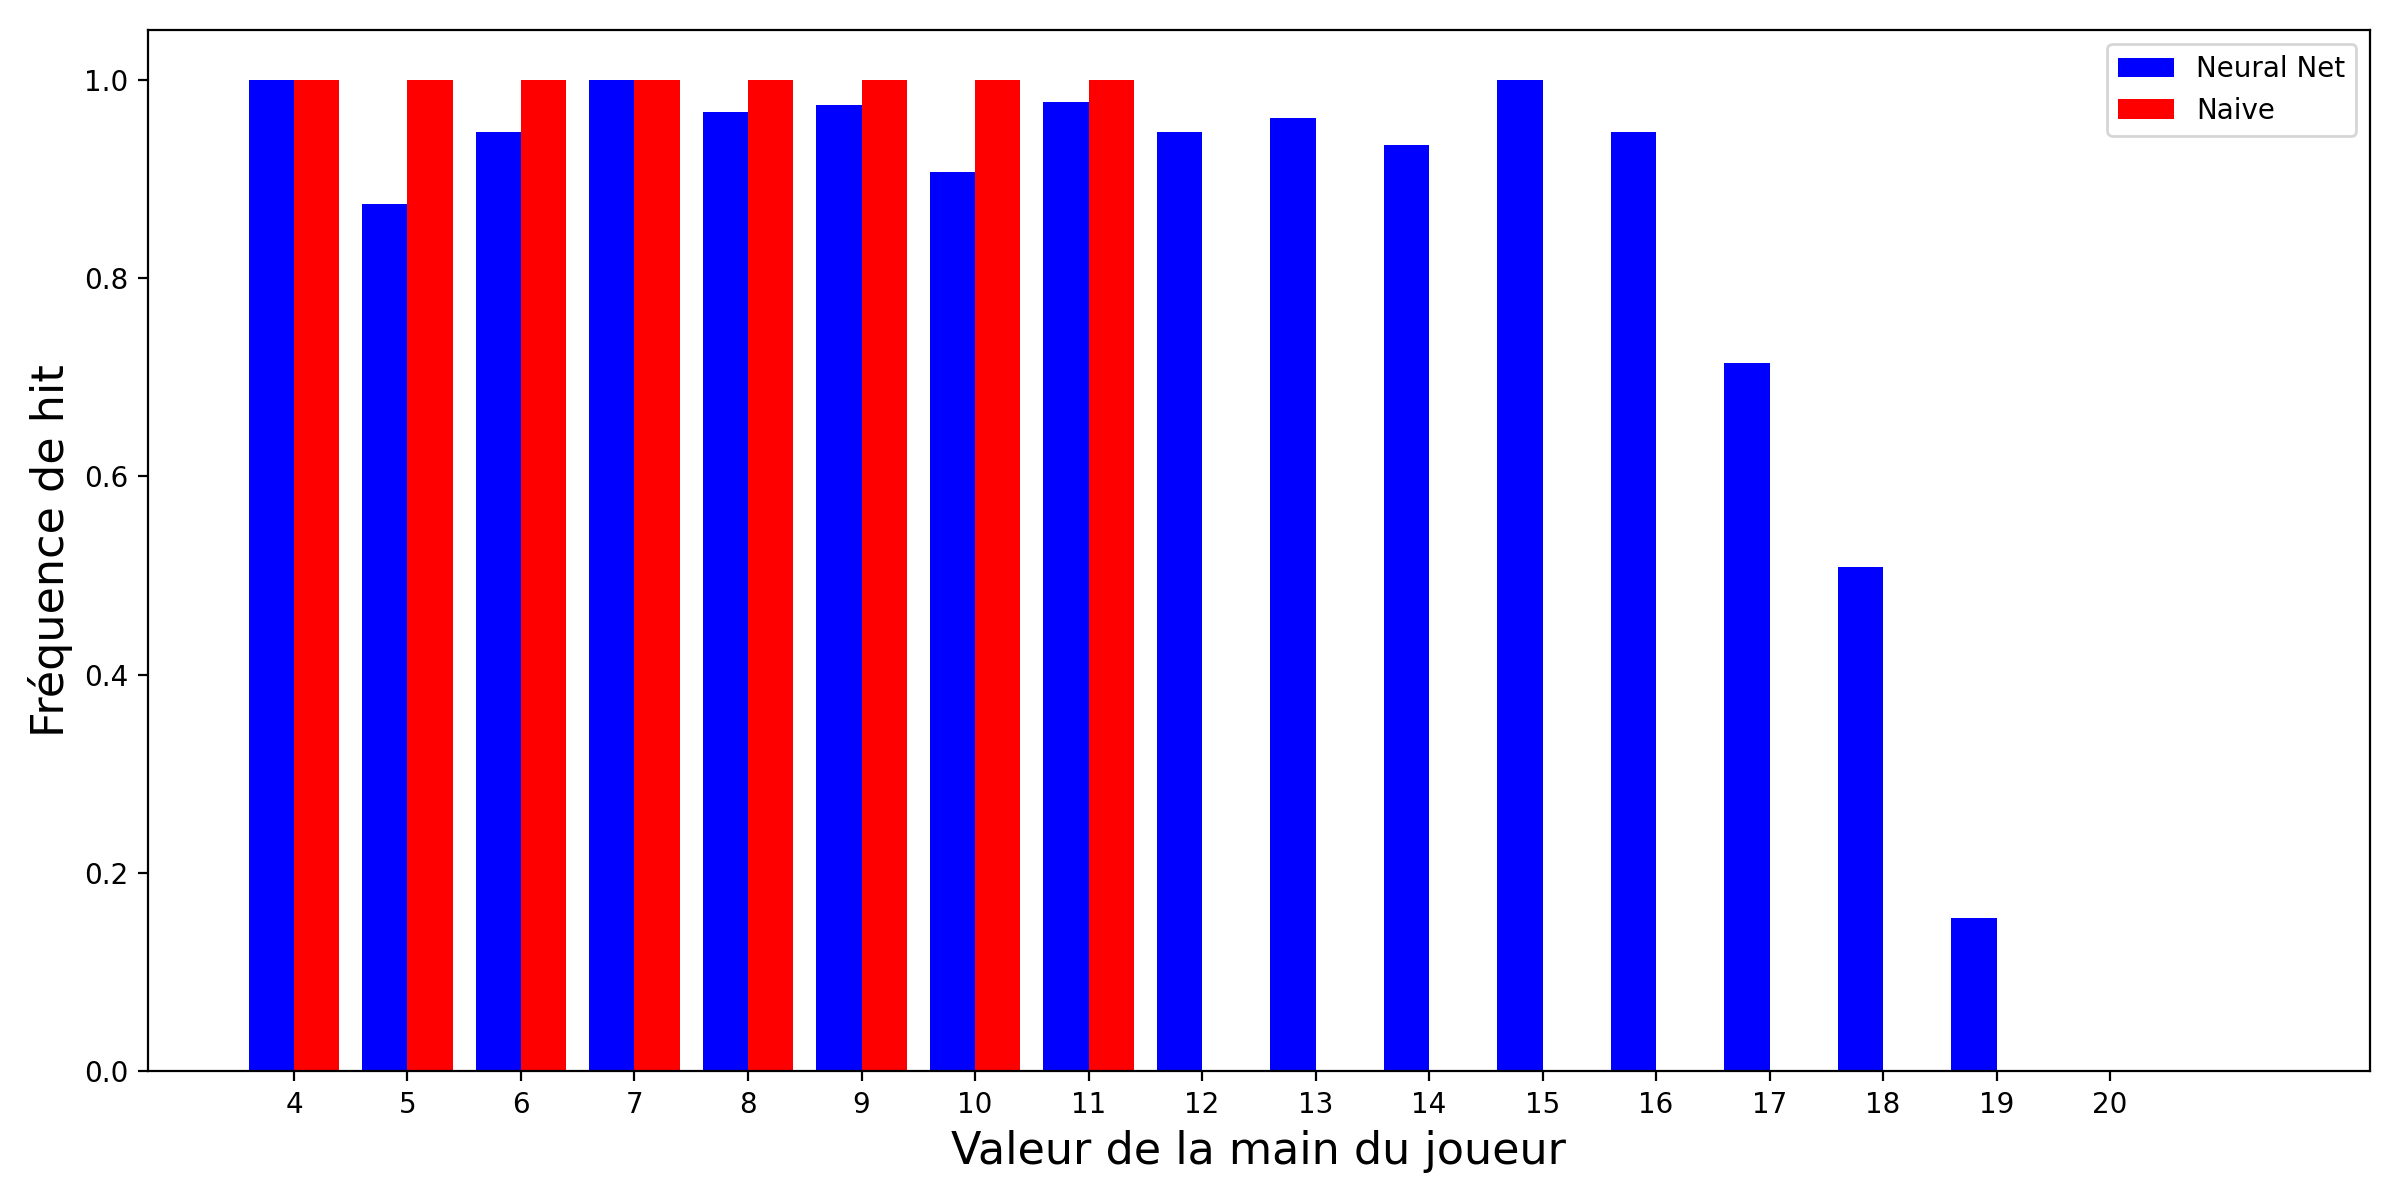
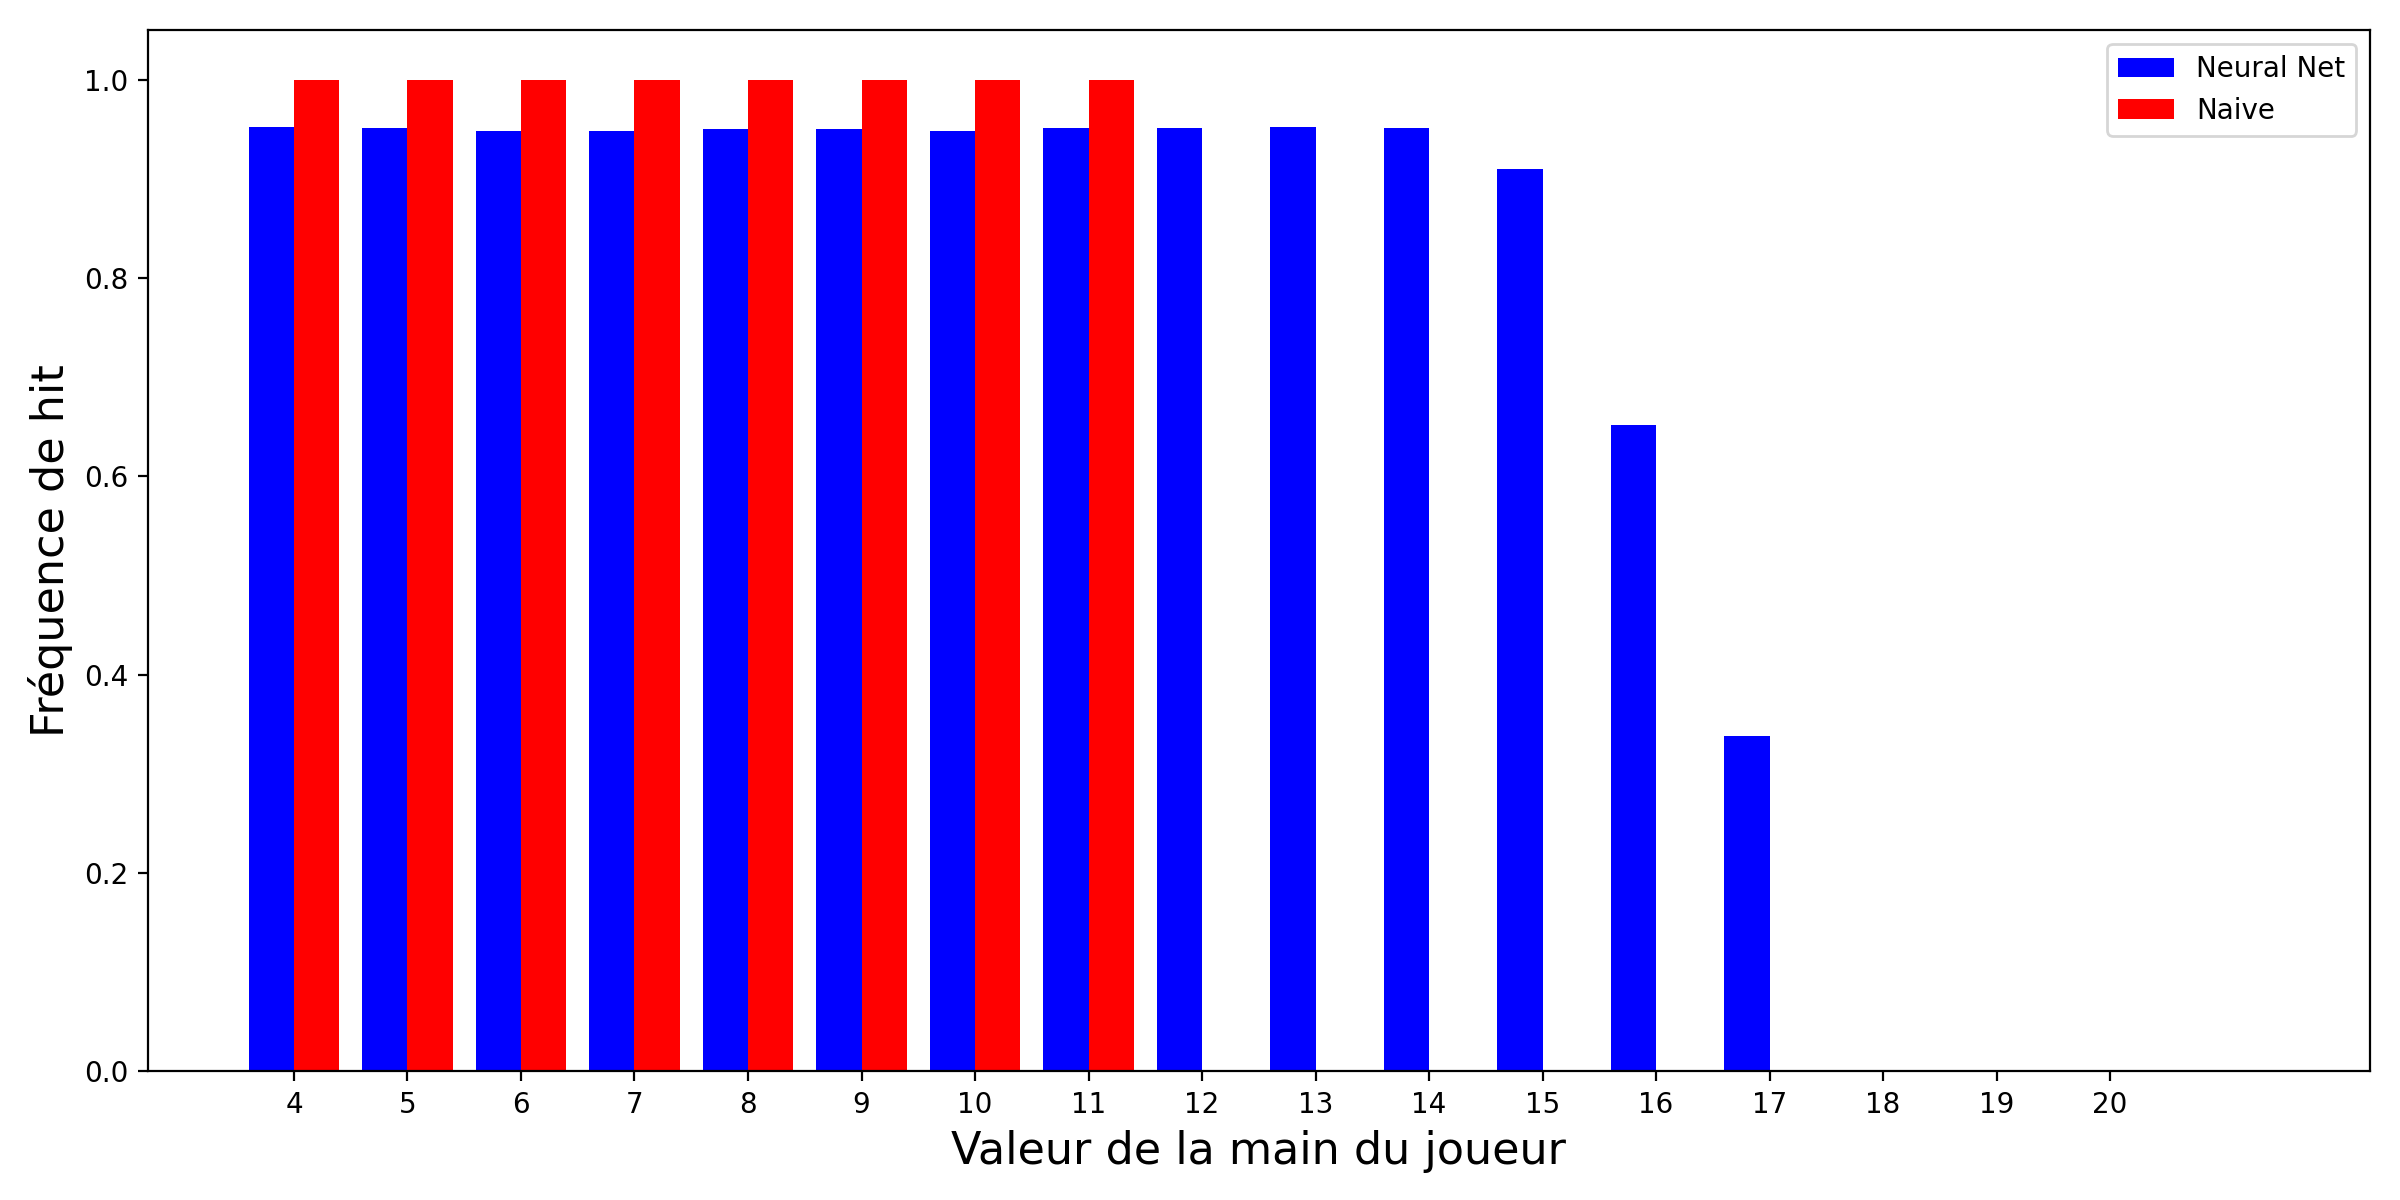
nn played on 75k stacks

diff --git a/Simulation.py b/Simulation.py
@@ -152,7 +152,9 @@ class Simulation:
                 self.total_action.append(self.action) # to know if the player hits or not 
                 self.player_live_total.append(self.live_total)
                 self.games_played += 1
-        
+                if (self.type == "smart"):
+                    print(self.games_played)
+
         print("\nTotal games played: " + str(self.games_played) + "\n")   
         # print(self.player_results)
     
@@ -493,6 +495,8 @@ class Simulation:
         # print(self.wins, self.loses, self.ties)
         self.stats = {
             "type": self.type,
+            "limit": self.limit,
+            "player_num": self.players,
             "neural-net guessing rate": self.roc_auc,
             "games_played": self.games_played,
             "wins": [self.wins, str((round(self.wins / self.games_played * 100, 2))) + " %"], # [<number>, <percentage>]

diff --git a/main.py b/main.py
@@ -23,7 +23,7 @@ def main(stacks):
         # modelizing data frames
         simulation.modelisation()
         # simulation.heatmap("Valeur de main", "Première cart du croupier")
-        # simulation.export_headers()
+        simulation.export_headers()
         total_stats.append(simulation.stats)
         # simulation.export_headers()
         # simulation.modelisation()
@@ -37,11 +37,11 @@ def main(stacks):
     print("Changing type...")
     simulation.type = "smart"
     # reset counter and stacks (more vars need to be reset)
-    simulation.reset(100)
+    simulation.reset(75000)
     simulation.play()
     simulation.evaluate()
     simulation.modelisation()
-    # simulation.export_headers()
+    simulation.export_headers()
     models.append([simulation.df_model, f"{simulation.type}"])
     total_stats.append(simulation.stats)    
     # comparing
